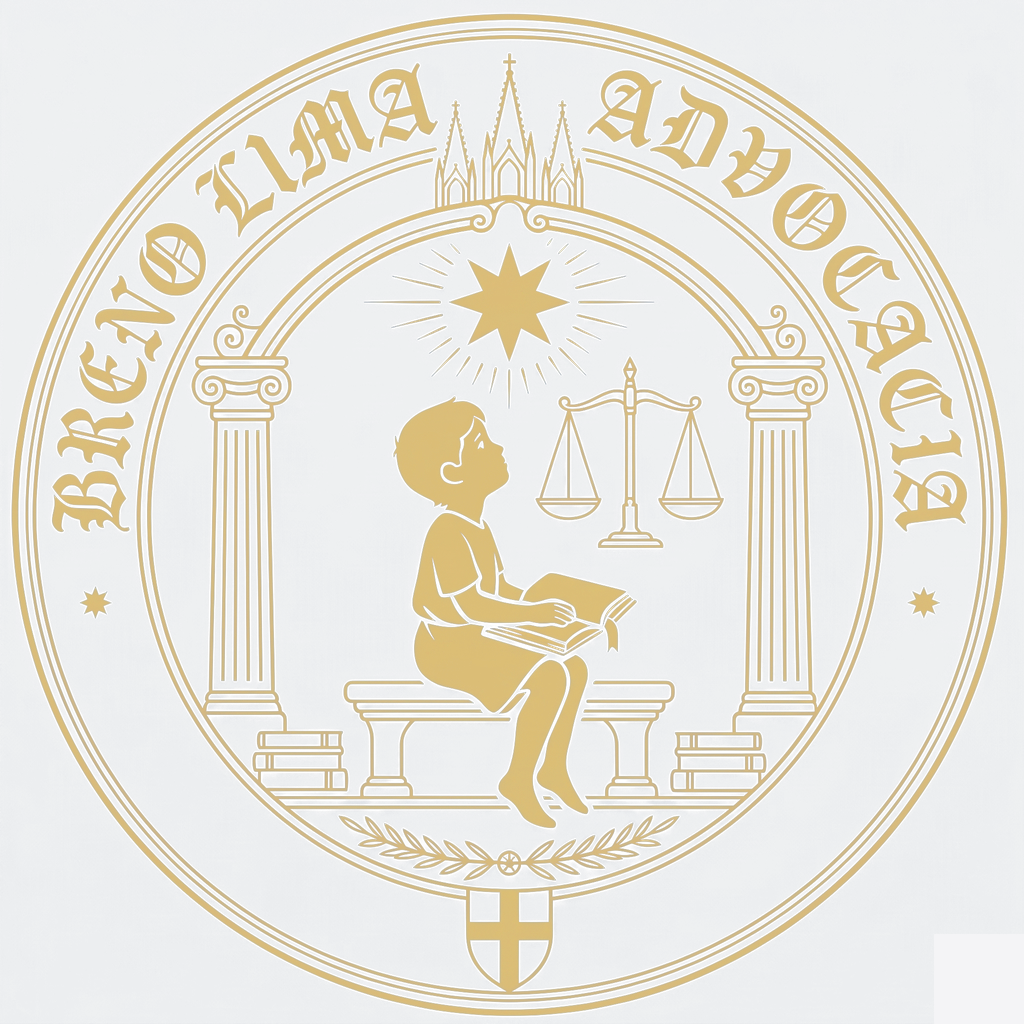
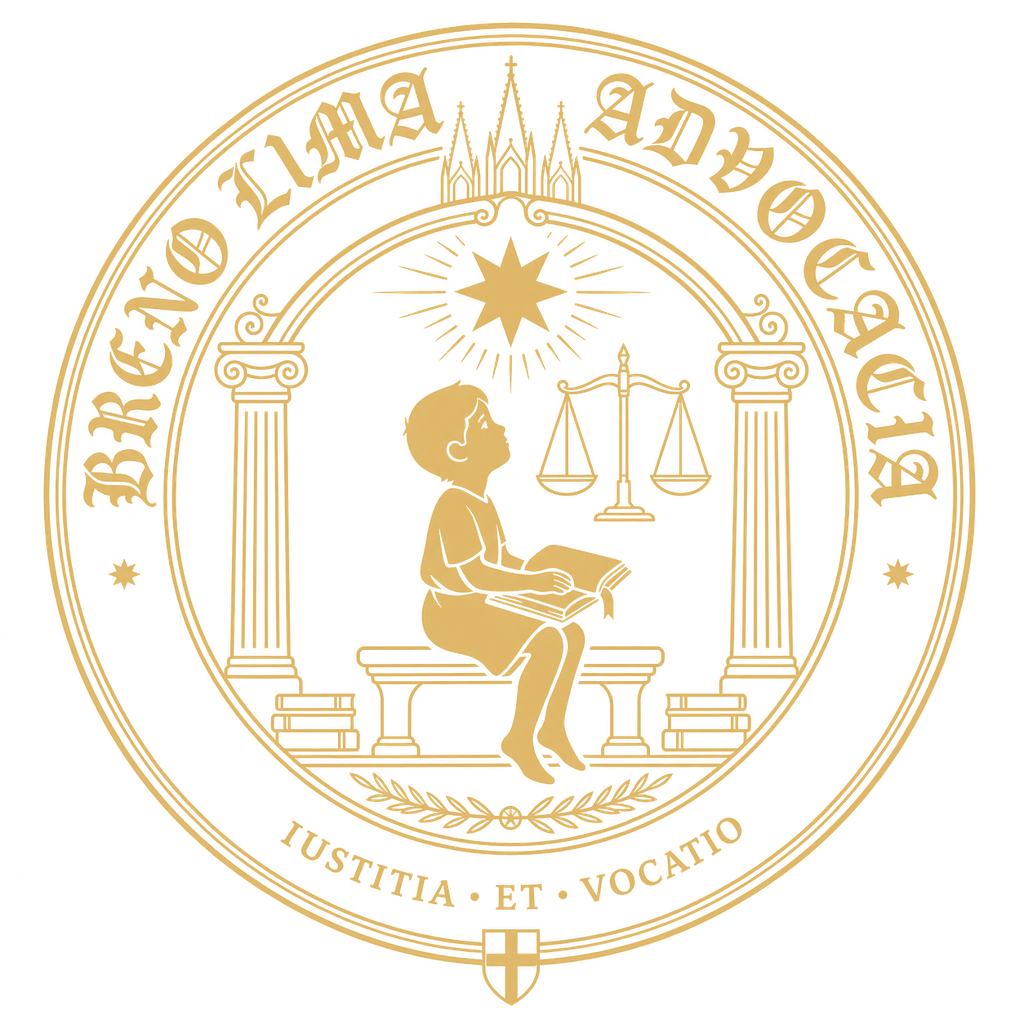
atualiza selos v3 com IUSTITIA ET VOCATIO e fundo realmente transparente
- selo gold e navy regenerados a partir das versoes corrigidas com a frase em latim
- alpha extraido por decomposicao linear navy<->fg (sem halo nas bordas)
- bumpa cache buster ?v=4 nas 5 referencias de seal-v3

Changed region(s): [[0.0, 0.0, 1.0, 1.0]]

diff --git a/index.html b/index.html
@@ -25,7 +25,7 @@
 <meta name="twitter:image" content="https://vejaseusite.github.io/BrenoLimaAdvocacia/assets/og-image.jpg" />
 <link rel="icon" type="image/png" href="assets/favicon-v3.png?v=3" />
 <link rel="apple-touch-icon" href="assets/favicon-v3.png?v=3" />
-<link rel="preload" as="image" href="assets/seal-v3-gold.png?v=3" fetchpriority="high" />
+<link rel="preload" as="image" href="assets/seal-v3-gold.png?v=4" fetchpriority="high" />
 <link rel="preload" as="image" href="assets/wordmark-v3-gold.png?v=3" fetchpriority="high" />
 <link rel="preconnect" href="https://fonts.googleapis.com" />
 <link rel="preconnect" href="https://fonts.gstatic.com" crossorigin />
@@ -912,7 +912,7 @@
   <div class="nav-inner">
     <div class="nav-left">
       <a href="#" class="brand" aria-label="Breno Lima Advocacia — início">
-        <img class="brand-seal" src="assets/seal-v3-navy.png?v=3" alt="" aria-hidden="true" />
+        <img class="brand-seal" src="assets/seal-v3-navy.png?v=4" alt="" aria-hidden="true" />
         <img class="brand-wordmark" src="assets/wordmark-v3-navy.png?v=3" alt="Breno Lima Advocacia" />
       </a>
       <div class="nav-links" id="nav-links-menu">
@@ -1003,7 +1003,7 @@
   <div class="wrap">
     <!-- Logo horizontal grande no topo (selo + wordmark) -->
     <div class="hero-logo">
-      <img class="hero-seal" src="assets/seal-v3-gold.png?v=3" alt="Selo Breno Lima Advocacia" fetchpriority="high" decoding="async" />
+      <img class="hero-seal" src="assets/seal-v3-gold.png?v=4" alt="Selo Breno Lima Advocacia" fetchpriority="high" decoding="async" />
       <div class="hero-logo-divider" aria-hidden="true"></div>
       <img class="hero-wordmark" src="assets/wordmark-v3-gold.png?v=3" alt="Breno Lima Advocacia" />
     </div>
@@ -1287,7 +1287,7 @@
     <div class="about-grid">
       <div class="about-photo" data-reveal="left" data-tilt data-tilt-max="3">
         <div class="about-photo-inner">
-          <img class="about-seal" src="assets/seal-v3-gold.png?v=3" alt="Selo Breno Lima Advocacia" />
+          <img class="about-seal" src="assets/seal-v3-gold.png?v=4" alt="Selo Breno Lima Advocacia" />
           <img class="about-wordmark" src="assets/wordmark-v3-gold.png?v=3" alt="Breno Lima Advocacia" />
         </div>
       </div>
@@ -1720,7 +1720,7 @@
     <div class="foot-top">
       <div class="foot-brand">
         <a href="#" class="brand foot-brand-logo" style="color:#fff">
-          <img class="foot-seal" src="assets/seal-v3-gold.png?v=3" alt="Selo Breno Lima Advocacia" />
+          <img class="foot-seal" src="assets/seal-v3-gold.png?v=4" alt="Selo Breno Lima Advocacia" />
           <img class="foot-wordmark" src="assets/wordmark-v3-gold.png?v=3" alt="Breno Lima Advocacia" />
         </a>
         <p>Escritório de advocacia dedicado a Direito Cível, Previdenciário, Trabalhista e Sucessões. Atendimento direto, sem intermediário.</p>
